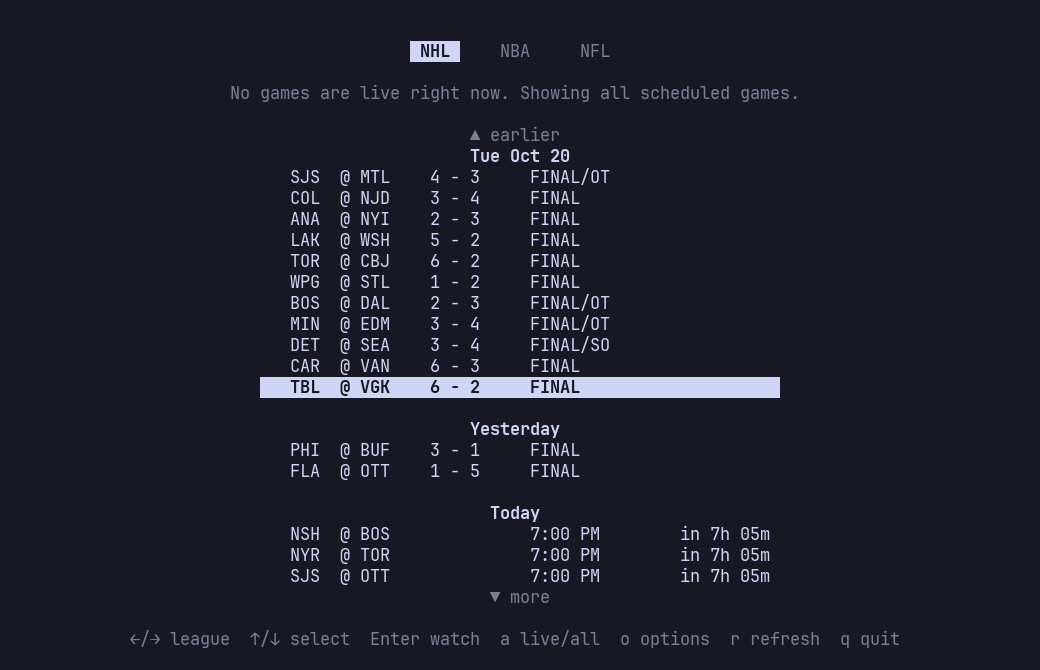
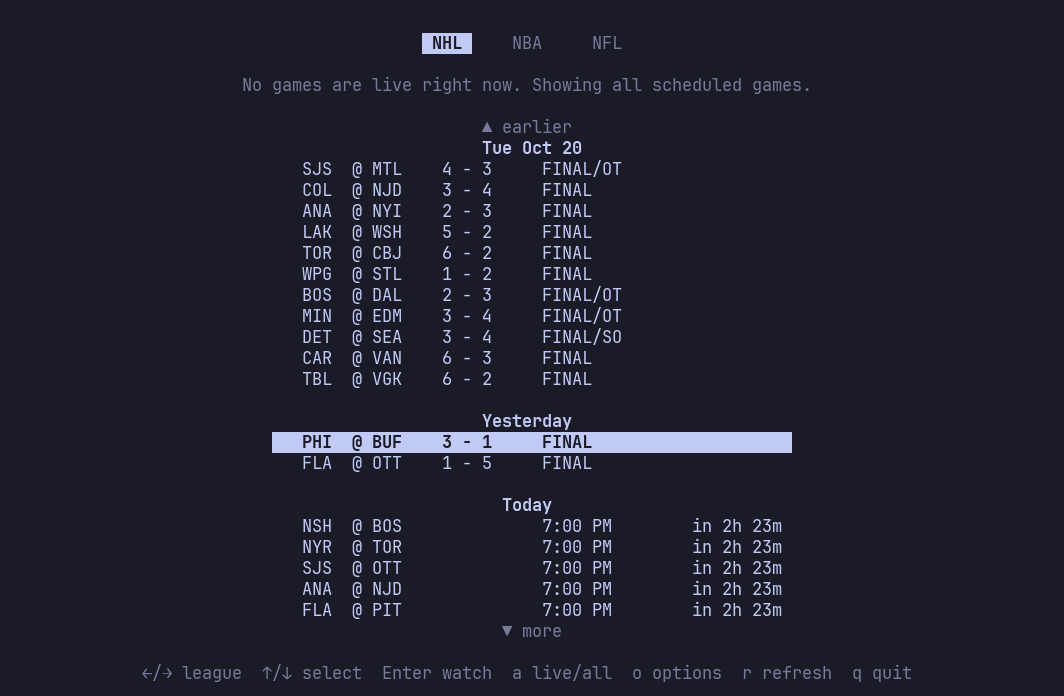
Redo the screenshots and tidy the README for the public repo
New screenshots from real games, drawn by the app: the Sabres' overtime
winner at Toronto, a Bills pass at Las Vegas, the Knicks and 76ers side by
side and with the play list, and the NHL list with the Sabres' game. The
README gains a short section on running it, groups the game view and game
list, says the APIs are unofficial, and moves the layout to a development
section; the nhl-live alias is gone.

diff --git a/README.md b/README.md
@@ -1,75 +1,110 @@
 # scoreboard
 
-Live NHL, NBA and NFL scores in the terminal. Python 3 standard library only.
+Live NHL, NBA and NFL scores in the terminal: the week's games by day, a game view with logos, a big clock
+and a play-by-play picture, and a stream delay that keeps it all in step with a TV or stream that's behind.
+Python 3.10 or newer, standard library only.
+
+| Game list: the week by day, earlier days loaded with `↑` | NHL: the latest event, a Sabres overtime winner |
+|---|---|
+| ![Game list](images/game-list.png) | ![NHL game with the latest event](images/nhl-latest-event.png) |
+| **NFL: back with `←` to a Bills pass, snap to catch** | **NBA: side by side, with the lead tracker** |
+| ![NFL game with the latest play](images/nfl-latest-play.png) | ![NBA game with the lead tracker](images/nba-lead-tracker.png) |
+
+The play list (`p`) under the play-by-play view, both gone back to a Knicks basket:
+
+![NBA game with the play list open](images/play-list.png)
+
+## Running it
+
+    git clone https://github.com/log-ical/scoreboard-cli.git
+    scoreboard-cli/bin/scoreboard
+
+There's nothing to install. To run it as `scoreboard` from anywhere, link the launcher onto your `PATH`:
+
+    ln -s "$PWD/scoreboard-cli/bin/scoreboard" ~/.local/bin/scoreboard
+
+Then:
 
     scoreboard              # opens the league you used last
     scoreboard nba          # or: nhl | nfl
     scoreboard --delay 45   # stream delay in seconds (saved)
     scoreboard --color 256  # force a color mode: truecolor | 256 | 16
     scoreboard --symbols console   # force a symbol set: full | console | ascii
-    nhl-live                # old name, same as `scoreboard nhl`
-
-## Screenshots
-
-| Game list: the week by day, earlier days loaded with `↑` | NHL: the play-by-play shot map |
-|---|---|
-| ![Game list](images/game-list.png) | ![NHL game with the shot map](images/nhl-shot-map.png) |
-| **NFL: the yard bar, with the first-down line** | **NBA: horizontal layout with the lead tracker** |
-| ![NFL game with the yard bar](images/nfl-yard-bar.png) | ![NBA game with the lead tracker](images/nba-lead-tracker.png) |
-
-The play list (`p`), under the play-by-play view:
-
-![NBA game with the play list open](images/play-list.png)
 
 ## Keys
 
 | Screen    | Keys |
 |-----------|------|
-| Game list | `←/→` or `1/2/3` league · `↑/↓` move (`↑` at the top: earlier games) · `Enter` watch · `a` live/all · `o` options · `r` refresh · `q` quit |
-| Game view | `p` expand/collapse the play list (`↑/↓` scroll, `[`/`]` page) · `v` next play-by-play view · `+`/`-` adjust delay · `o` options · `b`/`Esc` back · `q` quit |
+| Game list | `←/→` or `1/2/3` league · `↑/↓` move (`↑` at the top: earlier games), `PgUp/PgDn` `Home/End` · `Enter` watch · `a` live/all · `o` options · `r` refresh · `q` quit |
+| Game view | `p` expand/collapse the play list (`↑/↓` scroll, `[`/`]` or `PgUp/PgDn` page) · `v` next play-by-play view · `←/→` step back and forth through its events (`[`/`]` score to score with the play list closed, `Home`/`End` first and latest) · `+`/`-` adjust delay · `o` options · `b`/`Esc` back · `q` quit |
 | Options   | `↑/↓` choose · `←/→` change · `o`/`Esc` close |
 
 `Ctrl-L` repaints the screen if anything ever looks garbled.
 
-The game view puts the away team on top and the home team on the bottom, each centered in its half,
-with the period and clock in the middle. Before a game starts the big clock counts down to the scheduled start
-(`1:04:59`, or `2D 03:15` for days, hours and minutes), and the game list shows `in 2h 05m` for games starting within a day. With **Logo layout** set to horizontal, the teams sit side by
-side (away left, home right) with the clock between them; windows too narrow for that use the vertical layout.
+## The game view
 
-Press `p` to expand the last-play line into a scrollable list of earlier plays, newest first (in the horizontal
-layout it fills the space between the teams, which stay put): every goal and
-penalty for the NHL; for the NBA and NFL, the newest 25-50 plays, with older pages loaded as you page past
-them (`]`). ESPN plays are only downloaded while the list is open. With a stream delay, the list stops at the play the delayed view is on.
-
+The away team is on top and the home team on the bottom, each centered in its half, with the period and
+clock in the middle. Before a game starts the big clock counts down to the scheduled start (`1:04:59`, or
+`2D 03:15` for days, hours and minutes). With **Logo layout** set to horizontal, the teams sit side by side
+(away left, home right) with the clock between them; windows too narrow for that use the vertical layout.
 Logos are fitted into a box that is square on screen, using the terminal's cell size in pixels when it
-reports one, so tall and wide logos come out the same size. A red ● on a league tab means it has live games.
-The NHL and NBA lists cover the week (the league's current day plus the six after it) and NFL the ESPN
-week; each day gets a heading, and the list scrolls. Days ahead are refetched every 10 minutes.
+reports one, so tall and wide logos come out the same size.
+
+The play-by-play view (on in **Options**) draws the latest event where it happened, with what it was:
+
+- **NHL**: shots and the save, goals, hits, faceoffs, takeaways and penalties on the rink, a shot's arrow
+  pointing at the net it went at, and the two events before it numbered.
+- **NBA**: shots, rebounds, fouls and turnovers on a half court, with the score after.
+- **NFL**: the play from the snap to where the ball ended up, with the yards and the down after.
+
+`v` switches to the other styles: a period's shot map or a zone strip for the NHL, a lead tracker or a shot
+chart for the NBA, a yard bar or the full field (ball, drive direction and first-down line) for the NFL.
+The style is remembered per league. `←/→` go back through the game's events, and each view then shows the
+game as it stood (the maps, that event's period); `→` past the latest is live again. It needs about a
+40-row window in the vertical layout.
+
+Press `p` to expand the last-play line into a scrollable list of earlier plays, newest first (in the
+horizontal layout it fills the space between the teams, which stay put): every goal and penalty for the
+NHL; for the NBA and NFL, the newest 25-50 plays, with older pages loaded as you page past them (`]`).
+
+With a stream delay, nothing past the play the delayed view is on shows anywhere in the game view: the
+play list and the play-by-play view stop there, and season records are hidden while the delayed view is
+behind a game that has already ended.
+
+## The game list
+
+The NHL and NBA lists cover the week (the league's current day plus the six after it) and the NFL the ESPN
+week; each day gets a heading, and the list scrolls. Days ahead are refetched every 10 minutes. Games
+starting within a day show a countdown (`in 2h 05m`), and a red ● on a league tab means it has live games.
+
 Pressing `↑` on the first game (under the `▲ earlier` marker) loads the last day before it that had games;
 keep pressing to go further back (up to two weeks between game days). With games live, the first `↑`
 switches to all games. Earlier days stay loaded until you quit: switching leagues hides them again, and `↑`
 brings them back without reloading. Coming back from a game selects it again. A list starts on the first
 live game, or else the next one to be played, so late at night last night's finals don't come first.
 
-## Options (saved to `~/.config/scoreboard/settings.json`)
+## Options
+
+Saved to `~/.config/scoreboard/settings.json`. A file the app can't use (a typo, a value it doesn't know)
+is kept as `settings.json.bad`, with a warning, rather than saved over.
 
 - **Stream delay** (off to 30 min): the game view lags real time to match a delayed TV or stream.
-- **Hide scores in game list**: the list is always real time, so this makes it spoiler-free.
+- **Hide scores in game list**: the list is always real time, so this makes it spoiler-free (live games
+  show just `LIVE`: a period or clock would give away which went to overtime).
 - **Flash on scores** / **Beep on scores**: NHL goals and NFL scores, on the delayed view.
 - **Show last play**: NHL last goal and assists; NBA and NFL latest play.
 - **Show team stats**: NHL shots on goal; NBA timeouts and team fouls; NFL timeouts.
 - **Show game situation**: NHL power play and empty net; NBA bonus; NFL possession, red zone, down and distance.
-- **Show season records**: next to each team name (NHL W-L-OTL from the standings). Hidden while a delayed view
-  is behind a game that has already ended, since the record would give the result away.
-- **Play-by-play view**: a live picture under the clock. NFL: a yard bar or full field with the ball,
-  drive direction and first-down line. NBA: a lead tracker or the last shots on a half court. NHL: this
-  period's shots on a rink map, or a zone strip showing where the latest event happened. `v` switches
-  the style, remembered per league. It needs about a 40-row window in the vertical layout.
+- **Show season records**: next to each team name (NHL W-L-OTL from the standings).
+- **Play-by-play view**: see [The game view](#the-game-view).
 - **Symbols**: auto picks console-safe symbols on the Linux text console (`TERM=linux`), whose fonts draw
   many symbols alike (`◦` and `●`), ASCII when the terminal has no Unicode, and full Unicode elsewhere.
 - **Logo size**, **Logo layout** (vertical or horizontal), **Color mode**, **24-hour start times**
 
 ## Data and the clock
+
+The scores come from the NHL's and ESPN's public web APIs. They're unofficial and undocumented, so they can
+change without notice.
 
 | League | Source | Updates |
 |--------|--------|---------|
@@ -77,19 +112,23 @@ live game, or else the next one to be played, so late at night last night's fina
 | NBA, NFL | ESPN (`site.api.espn.com` for lists, `sports.core.api.espn.com` while watching) | About 3 KB per poll, every 3 s (NBA) or 5 s (NFL). ESPN doesn't say whether the clock is running, so it's inferred from the last play's type (timeout, foul, incomplete pass, ...) and timed from that play's timestamp. |
 
 Between updates the clock runs locally, absorbing small corrections smoothly. Stoppages show up only
-when the data reports them, so the clock can briefly run past a whistle and then jump back.
-Logos come from ESPN's CDN and are cached in `~/.cache/scoreboard/logos/`. The play-by-play view adds one request
-per NHL poll (the play-by-play feed, ~11 KB) and one per NBA game (all its plays, ~40 KB), only while it's on.
+when the data reports them, so the clock can briefly run past a whistle and then jump back. If no update
+comes in for a minute, the game view's title says so.
 
-## Layout
+Logos come from ESPN's CDN and are cached in `~/.cache/scoreboard/logos/`. The play-by-play view adds one
+request per NHL poll (the play-by-play feed, ~11 KB) and one per NBA or NFL game (all its plays,
+~40-100 KB), only while it's on. ESPN's play list is only downloaded while it's open.
 
-    bin/scoreboard          launcher (symlinked to /usr/local/bin/scoreboard)
+## Development
+
+    bin/scoreboard          launcher (works through a symlink)
     scoreboard/
       app.py                argument parsing, screen loop
       screens.py            game list and game view
-      model.py              league-neutral Game/Team model, stale-update filter
+      model.py              league-neutral Game/Team/Event model, stale-update filter
       clock.py              local clock running and smoothing
       settings.py           settings file and options menu
+      live.py               the play-by-play views
       leagues/              one adapter per data source
         nhl.py              NHL web API
         espn.py             NBA and NFL (ESPN), clock-stop rules per sport
@@ -98,7 +137,8 @@ per NHL poll (the play-by-play feed, ~11 KB) and one per NBA game (all its plays
       net.py                HTTP and cache-age helpers
     tests/                  unittest suite with captured API responses in fixtures/
 
-Run the tests with `python3 -m unittest discover -s tests -t .` from this folder.
+Run the tests with `python3 -m unittest discover -s tests -t .` from the top of the repo. CI runs them on
+Python 3.10 and 3.14.
 
 To add a league, write an adapter with `list_games()`, `open(game)` (returns a poller whose `poll()` gives
 `(Game, data_time, seconds_until_next_poll)`) and `score_alert(points)`, then register it in `leagues/__init__.py`.
